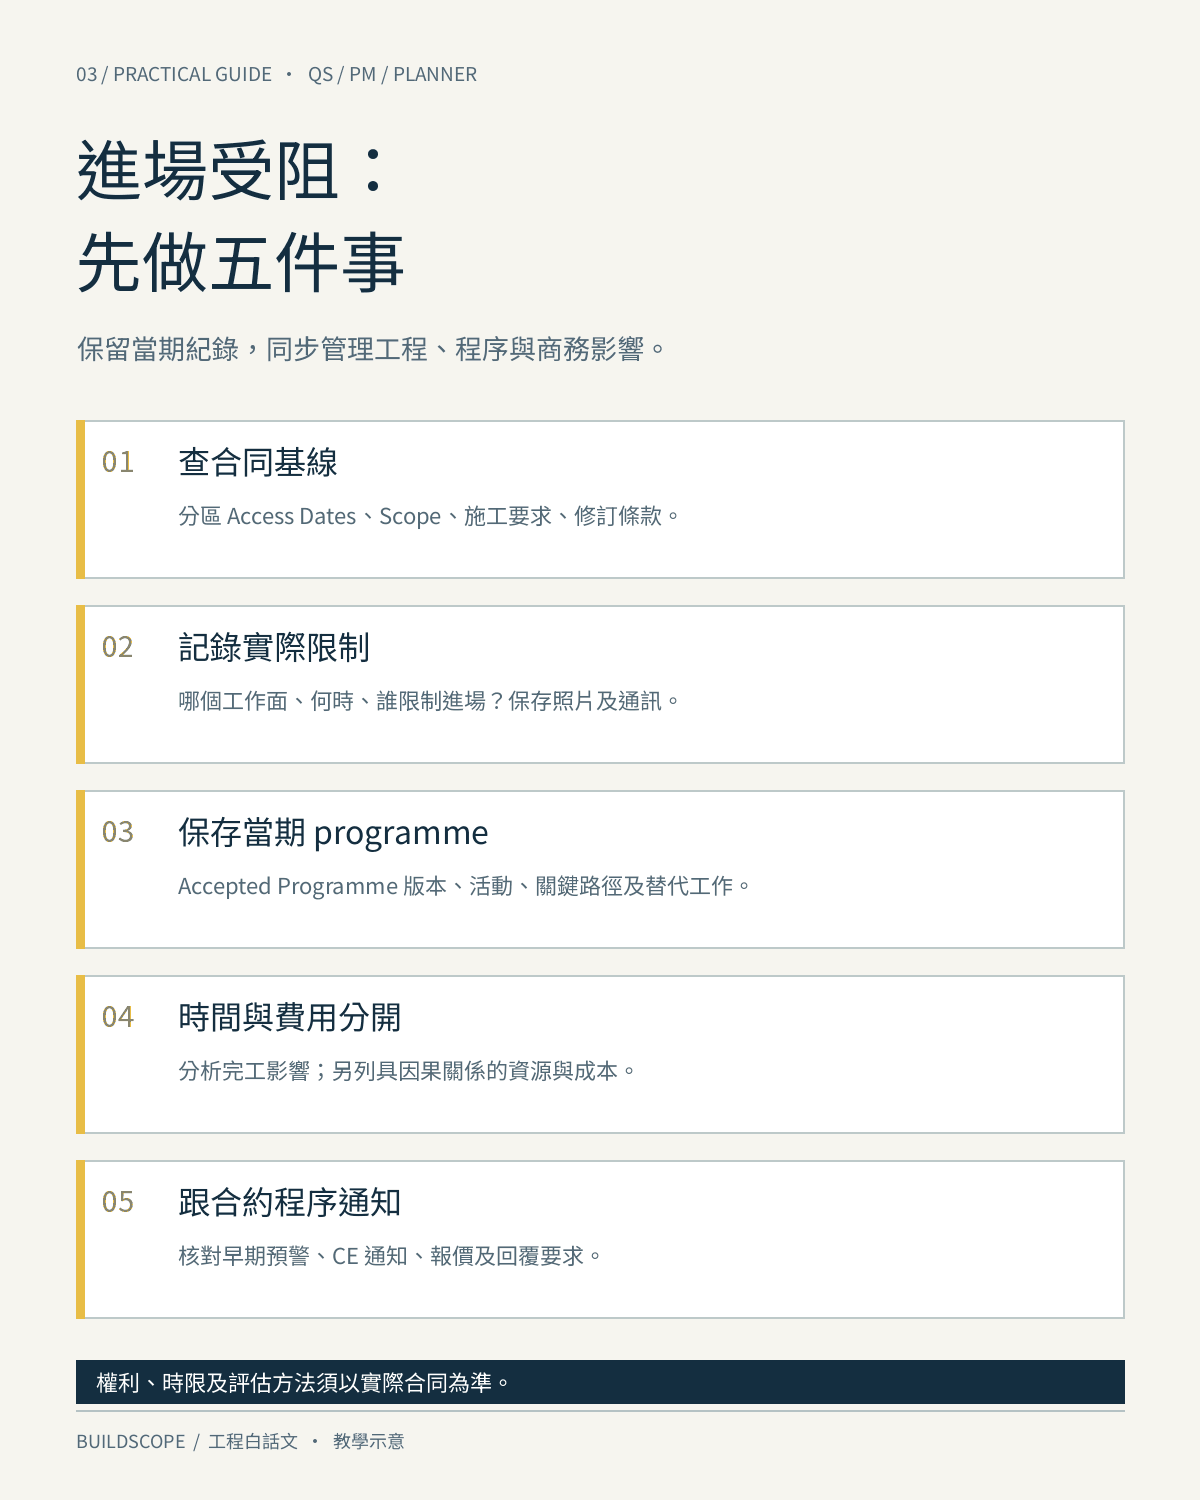
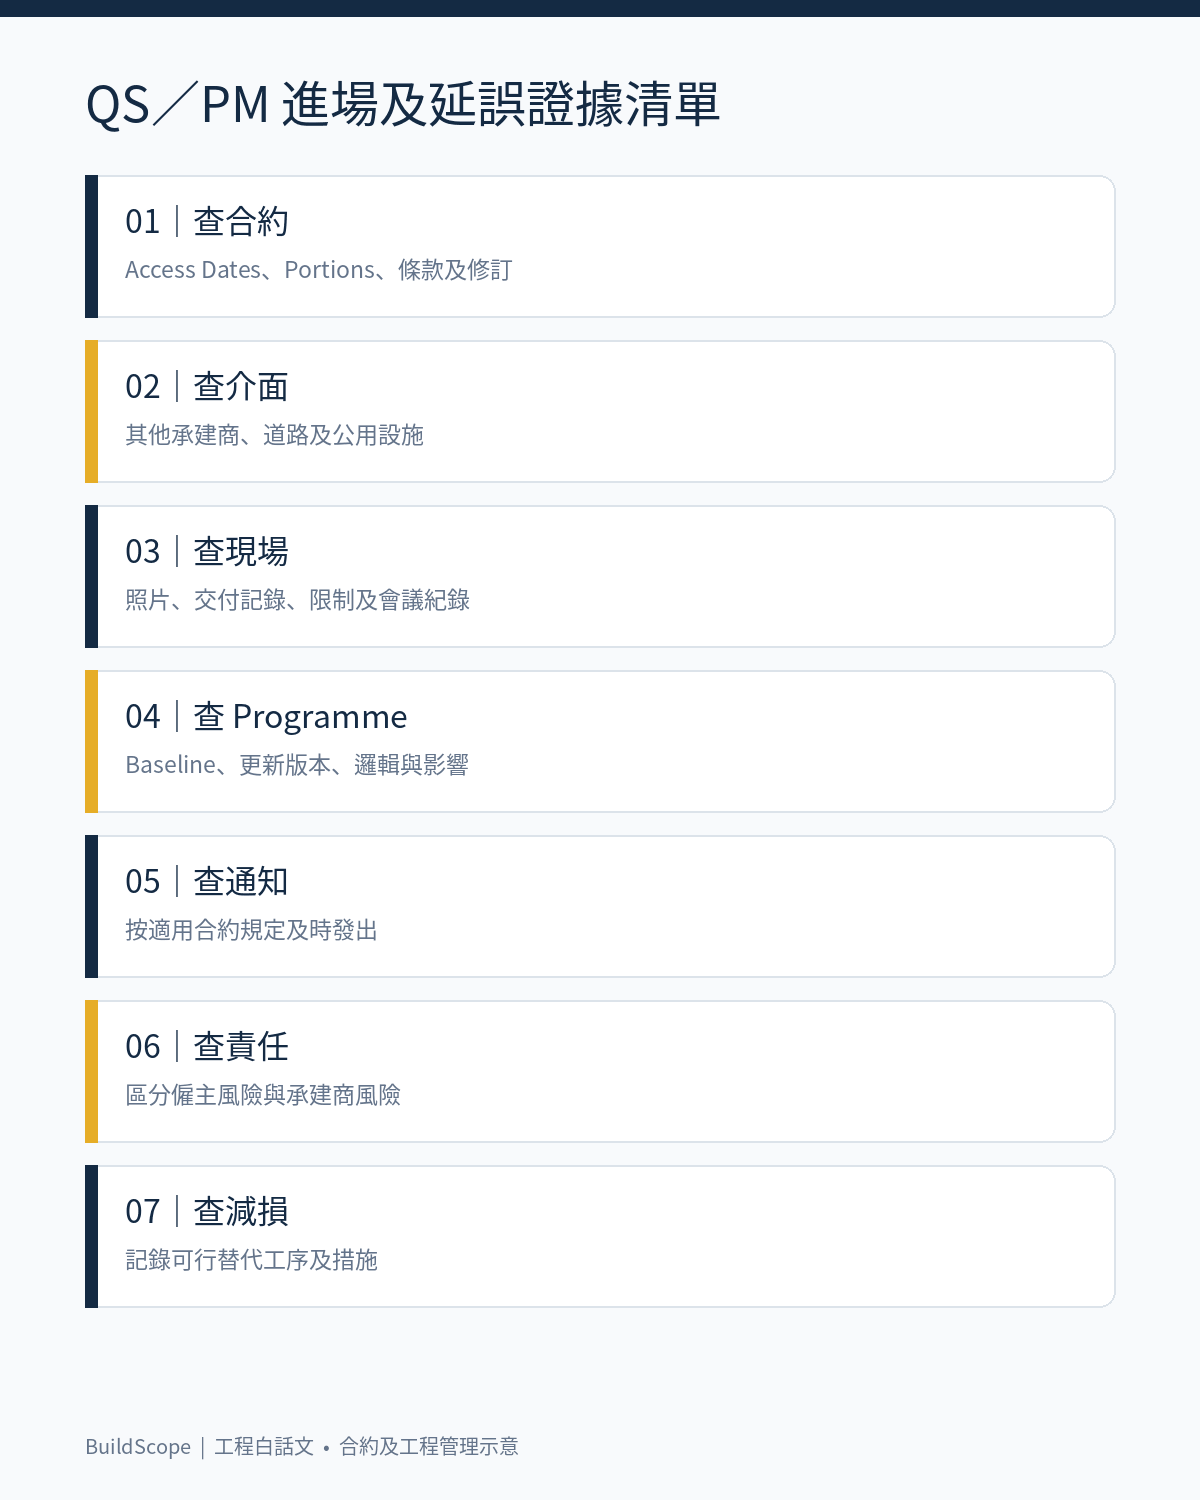
Use reviewed source visuals and correct image descriptions

diff --git a/docs/editorial/government-land-release-site-possession-date-qa.md b/docs/editorial/government-land-release-site-possession-date-qa.md
@@ -18,12 +18,12 @@ The actual F1–F4 NEC edition, Hong Kong amendments, ACC, Z clauses, Contract D
 
 | File | Pixels / bytes | Placement | Caption and alt | Result |
 | --- | --- | --- | --- | --- |
-| `hero.webp` | 1400×790 / 40,534 | Article cover | In frontmatter; abstract A/B zone diagram, expressly not actual site | GO |
+| `hero.webp` | 1400×790 / 134,350 | Article cover | Existing generated construction context image, recompressed; caption and alt expressly say not actual site | GO |
 | `logic.png` | 1400×900 / 32,386 | After official-announcement section | In article; later-of rule and separate event/time/cost boxes | GO |
 | `scenario.png` | 1400×900 / 24,282 | After hypothetical interface-delay section | In article; no fictional dates or entitlement amounts | GO |
-| `checklist.png` | 1200×1500 / 45,405 | Before practical evidence list | In article; five steps match article | GO |
+| `checklist.png` | 1200×1500 / 35,830 | Before practical evidence list | Existing seven-point checklist, palette optimized; article groups these into five workflow steps | GO |
 
-All images inspected at native size; Traditional Chinese, arrow direction, dimensions, contrast and text bounds checked. On small screens, the body supplies the same information in HTML text and a table. A live mobile browser check remains open.
+The previously generated hero and checklist were inspected and retained. The previous logic and scenario graphics did not show the NEC4 later-of rule or separate time/cost assessment sufficiently; they were rebuilt and checked. All four were inspected at native size for Traditional Chinese, arrow direction, dimensions, contrast and text bounds. On small screens, the body supplies the same information in HTML text and a table. A live mobile browser check remains open.
 
 ## Website and SEO
 
